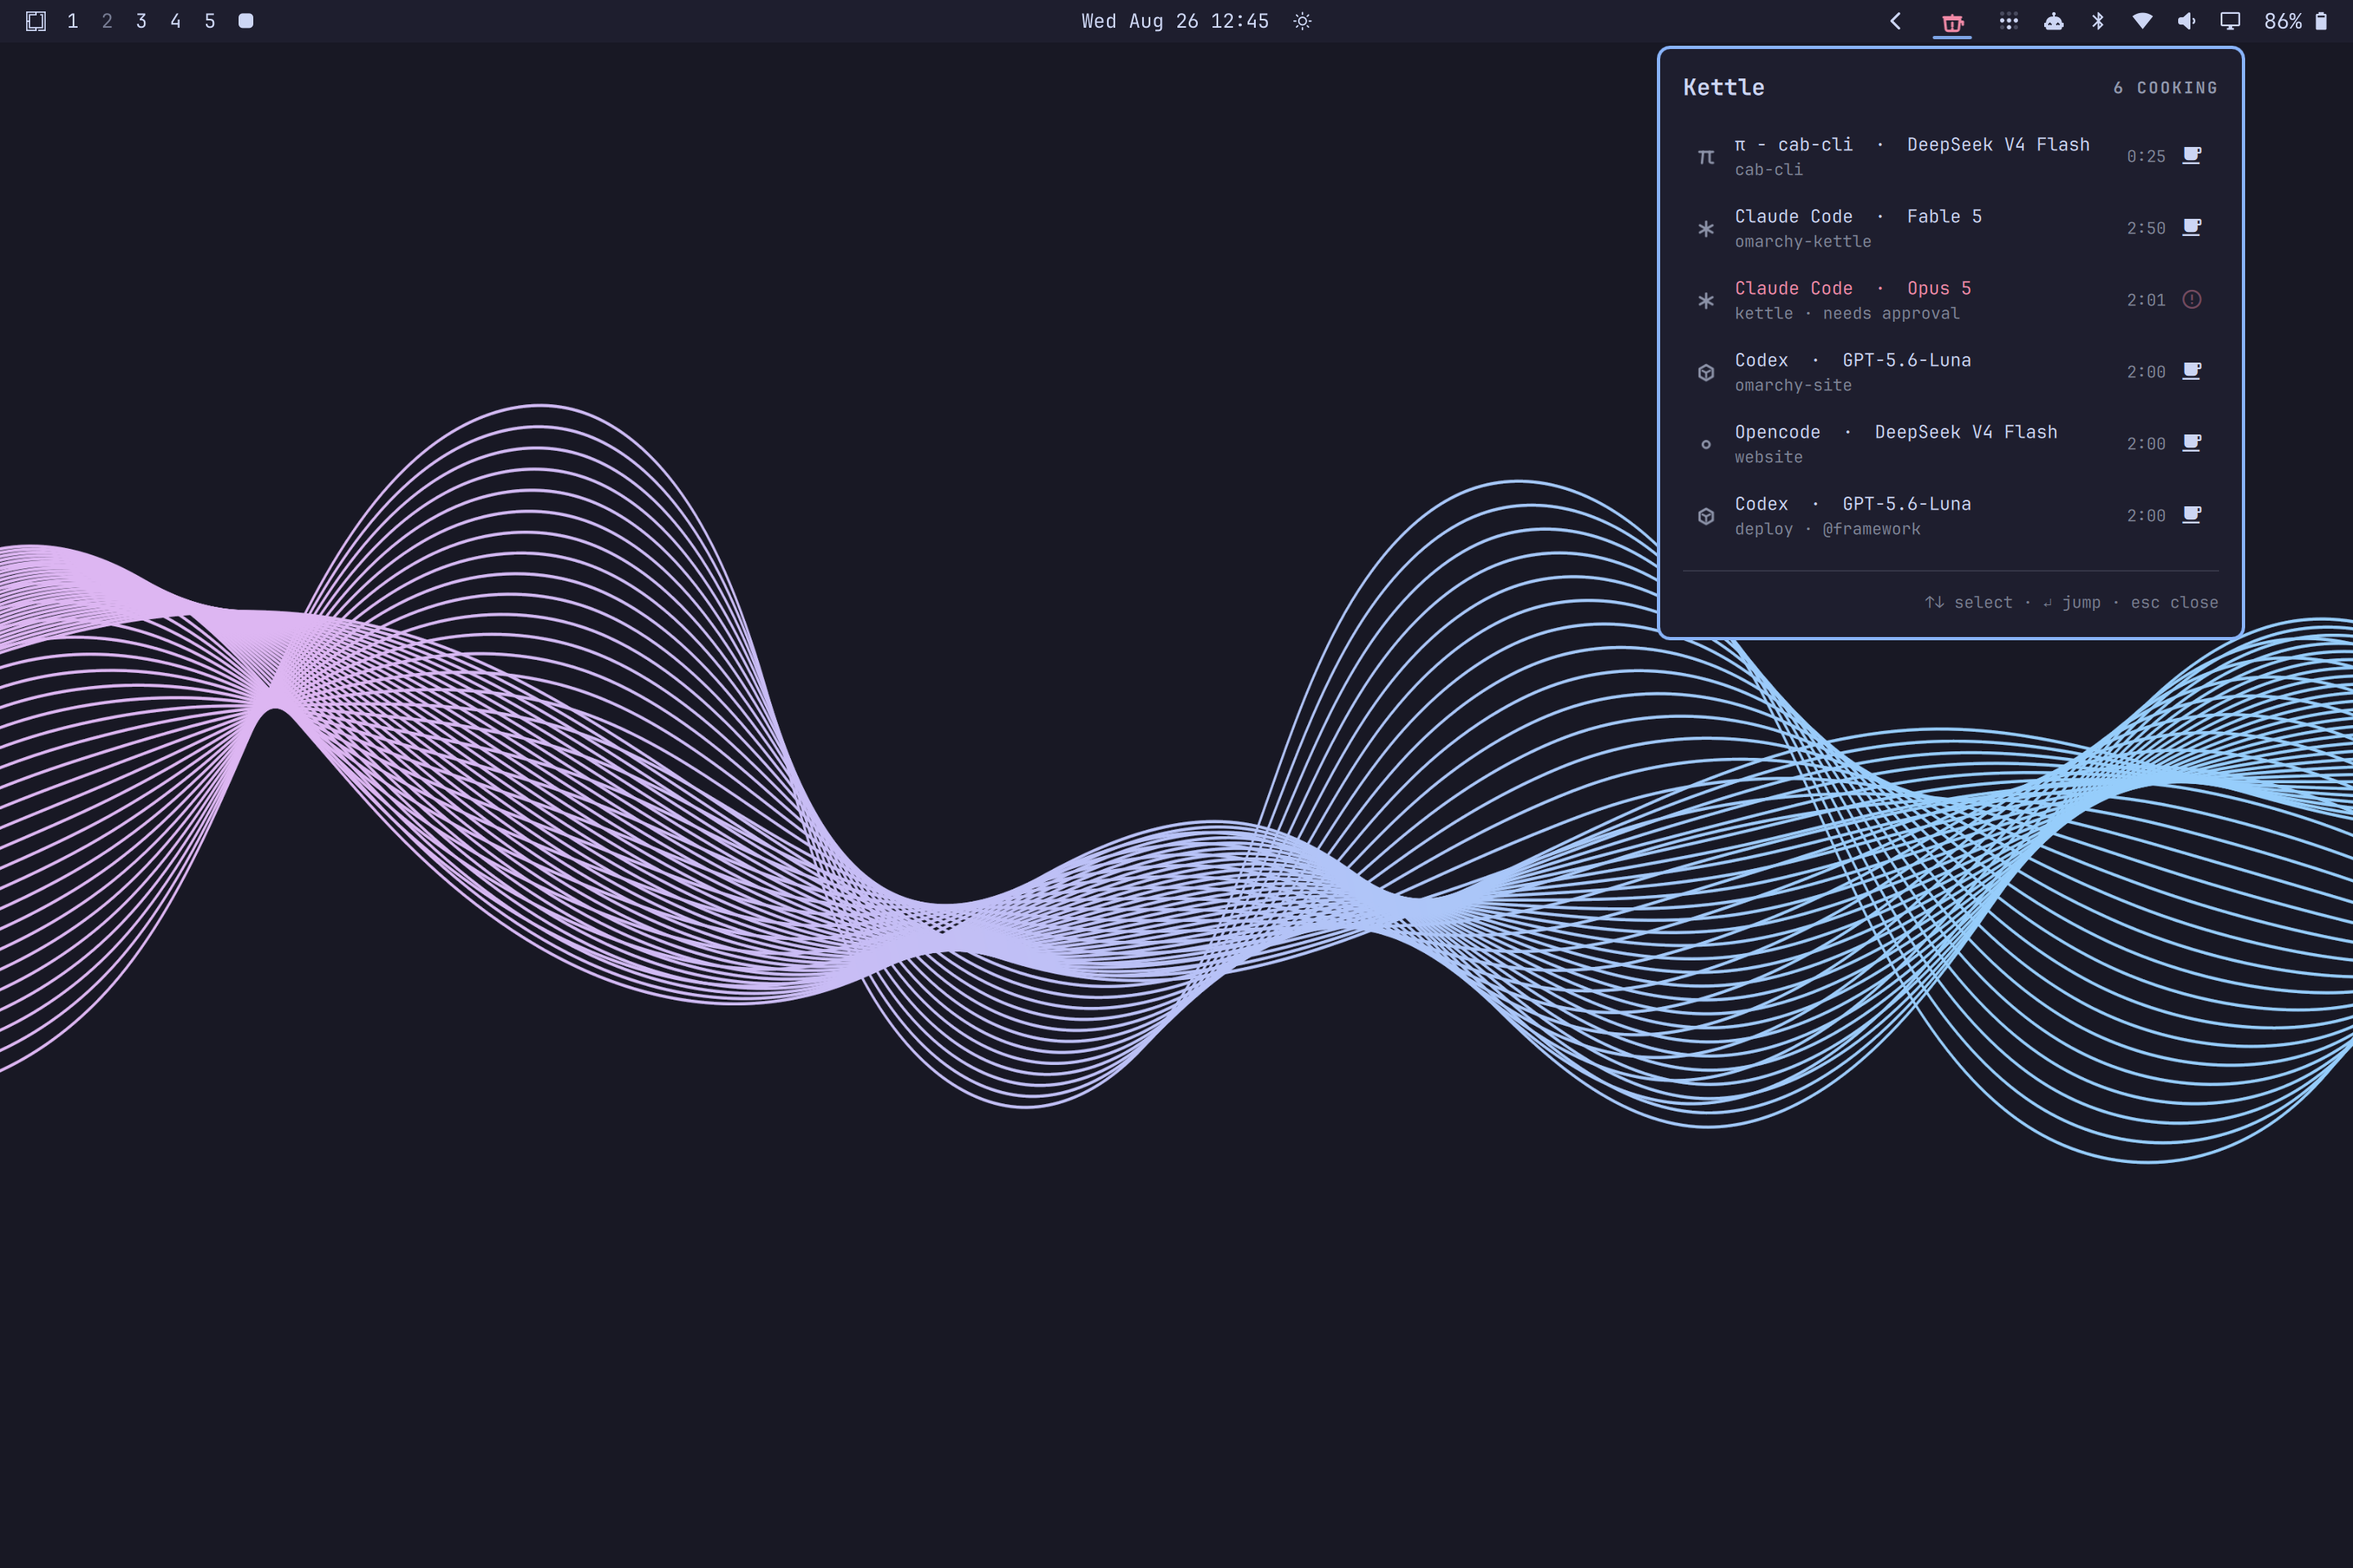
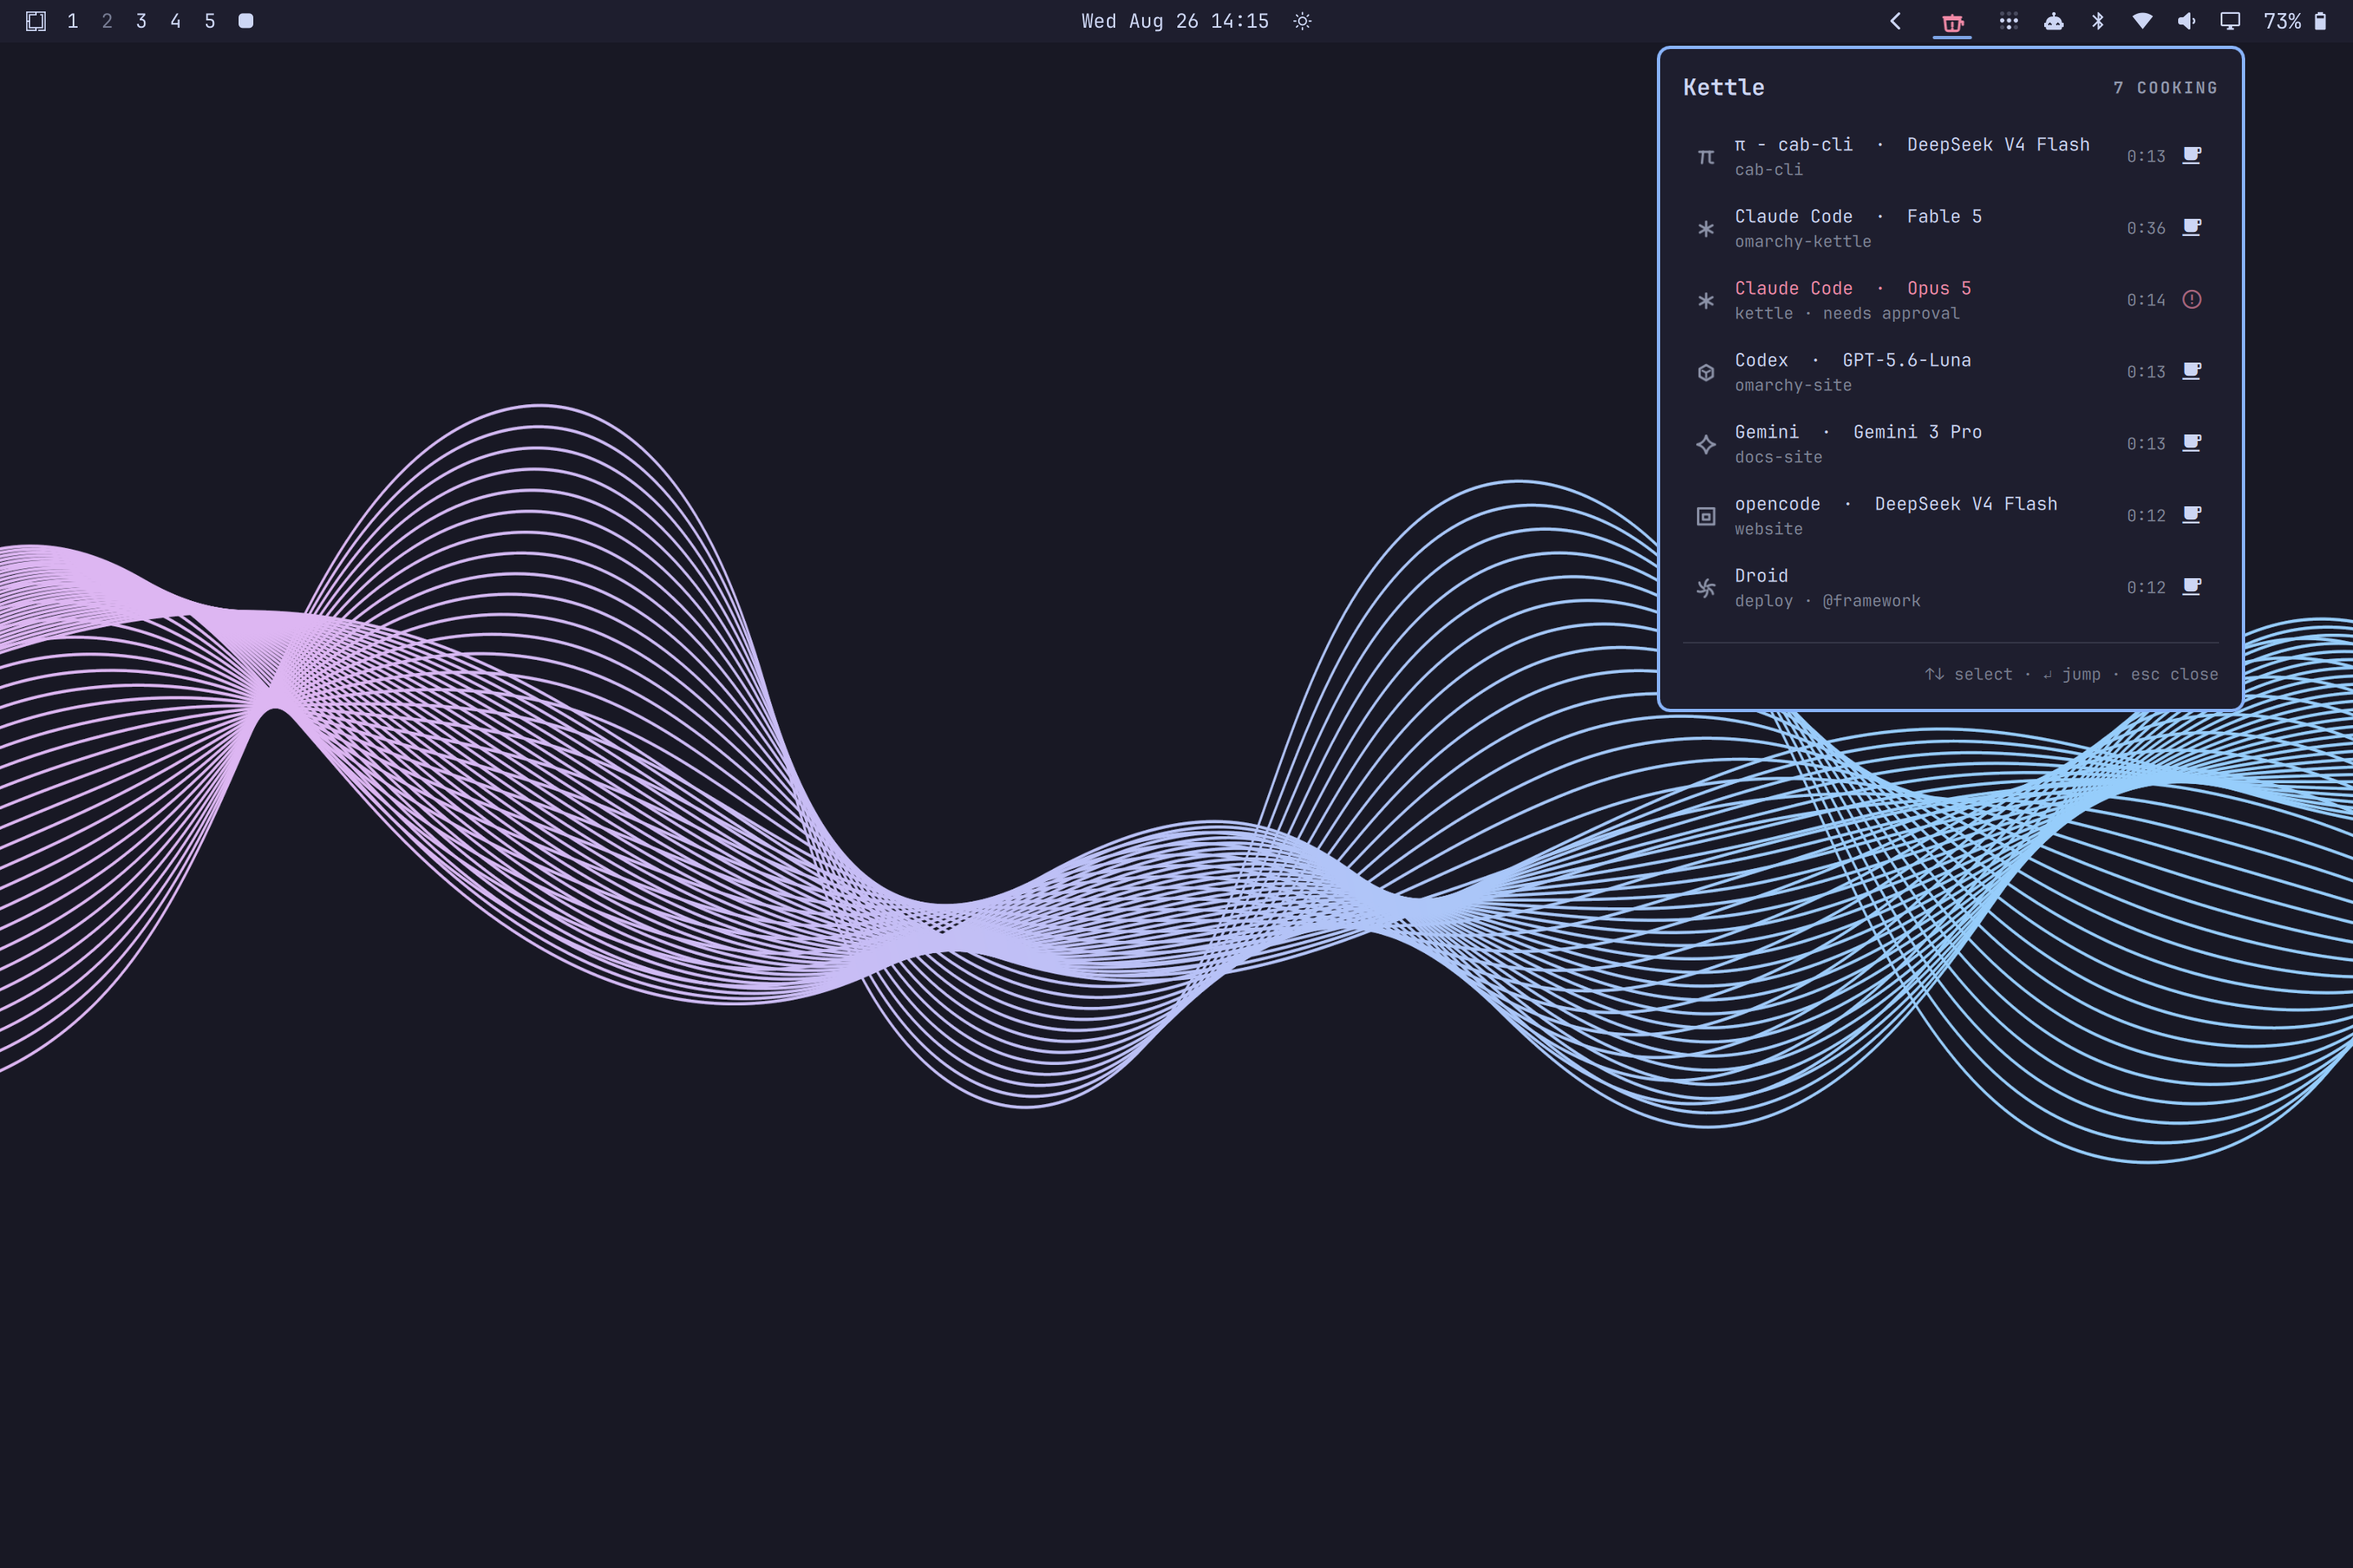
Refresh the demo shot to show the drawn marks
The hero predated the identity marks: its opencode pot wore the old
letter ring. Restaged with seven pots so the sparkle, terminal frame
and turbine are all visible, including a Gemini session and a droid
pot arriving over the relay.

diff --git a/README.md b/README.md
@@ -6,9 +6,9 @@ pot to land in the terminal it's running in.
 
 ![Kettle on the bar](docs/demo.png)
 
-Six sessions above, from four sources: a herdr pane, hook-driven sessions,
+Seven sessions above, from four sources: a herdr pane, hook-driven sessions,
 one posted by `kettle-emit`, and one arriving through the ssh relay — each
-naming its model from its agent's own catalog.
+agent wearing its own mark and naming its model from its agent's catalog.
 
 Kettle knows about **herdr** sessions — which covers every agent herdr tracks,
 including Pi — plus agents with hook systems running in plain terminal
